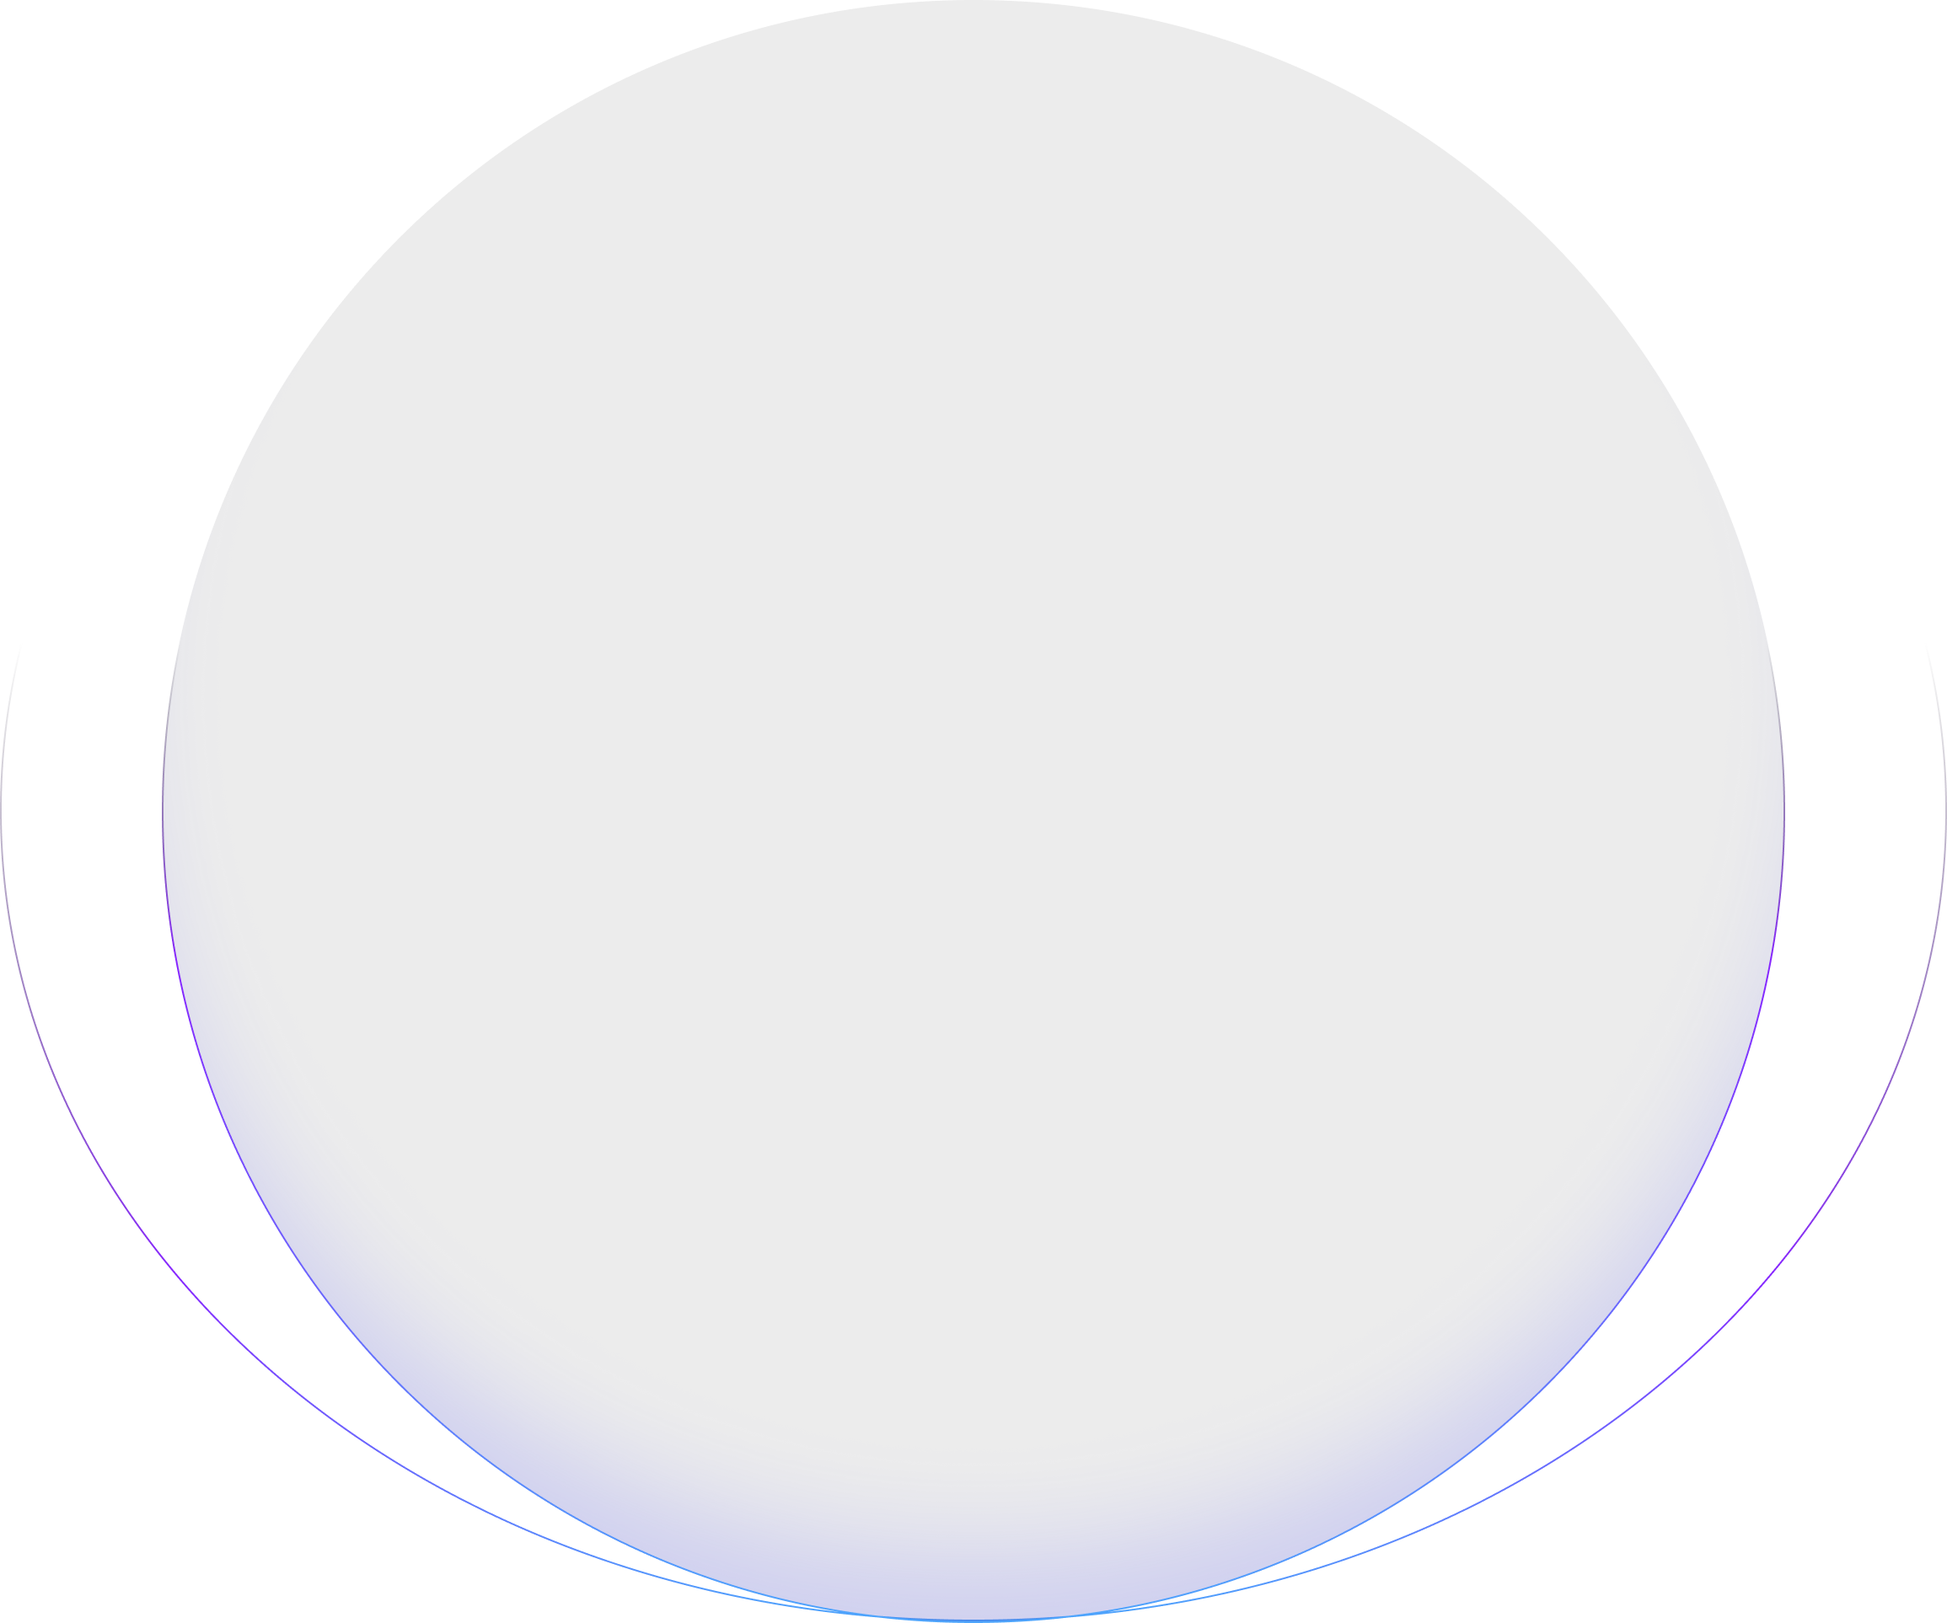
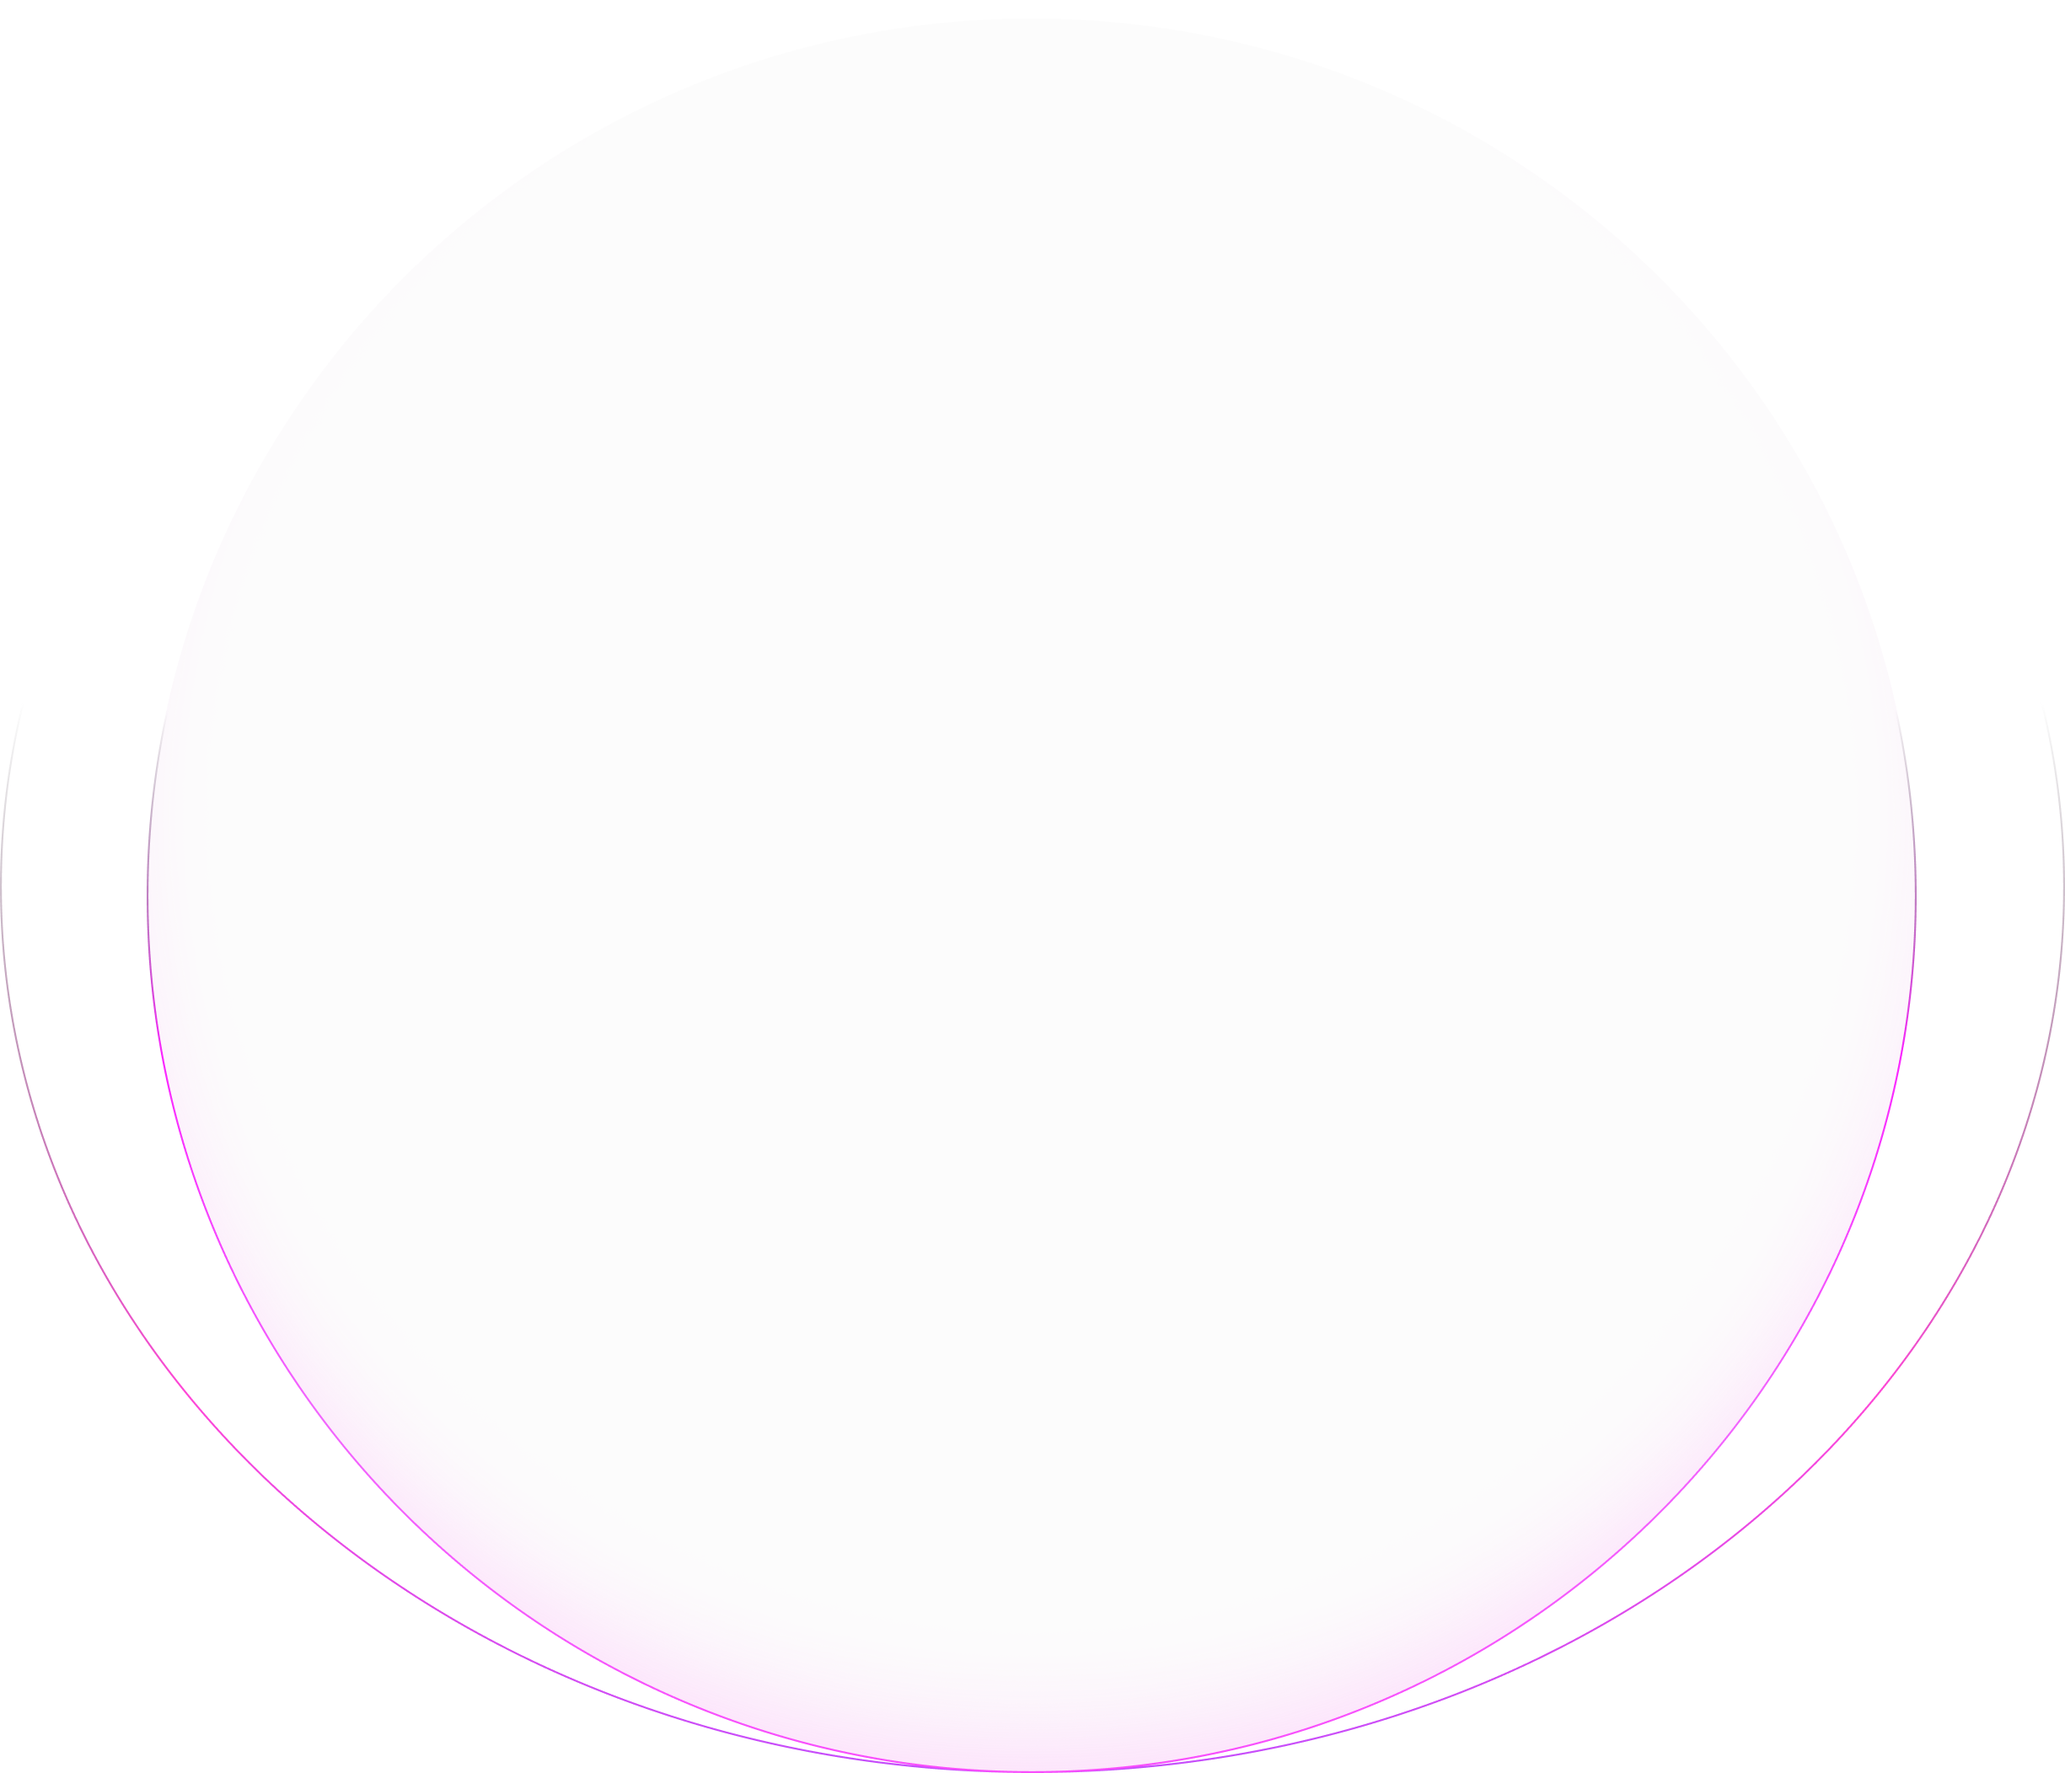
update header

Changed region(s): [[0.0935, 0.5607, 0.9351, 1.0], [0.0623, 0.5607, 0.0935, 0.5919]]

diff --git a/apps/landing/src/app/team/page.tsx b/apps/landing/src/app/team/page.tsx
@@ -12,10 +12,10 @@ export const metadata = {
 
 export default function Page() {
 	return (
-		<div className="mt-[200px] flex w-full flex-col items-center overflow-hidden px-4">
+		<div className="mt-[200px] flex w-full flex-col items-center overflow-hidden px-4 lg:overflow-visible">
 			<div className="relative mx-auto h-auto w-full max-w-[1200px] overflow-visible">
 				<div
-					className="fade-in-heading absolute -left-1/4 top-[10%] mx-auto size-[750px] xs:inset-x-0 xs:left-[-16%] xs:top-[-50px] sm:left-0 sm:top-[-175px] sm:mx-auto md:inset-x-0 md:top-[-250px] md:size-[900px] lg:top-[-420px] lg:size-[1100px]"
+					className="fade-in-heading absolute -left-1/4 top-[10%] mx-auto size-[750px] blur-[5px] xs:inset-x-0 xs:left-[-16%] xs:top-[-50px] sm:left-0 sm:top-[-175px] sm:mx-auto md:inset-x-0 md:top-[-250px] md:size-[900px] lg:top-[-420px] lg:size-[1100px]"
 					style={{
 						backgroundImage: 'url(/images/circlebg.webp',
 						backgroundRepeat: 'no-repeat',
@@ -25,7 +25,7 @@ export default function Page() {
 				/>
 				<h1 className="fade-in-heading mx-auto w-full max-w-[750px] text-center text-5xl font-bold leading-tight sm:leading-snug">
 					We believe file management should be{' '}
-					<span className="bg-gradient-to-r from-blue-500 to-purple-500 bg-clip-text text-transparent">
+					<span className="bg-gradient-to-r from-fuchsia-500 to-indigo-500 bg-clip-text text-transparent">
 						universal
 					</span>
 					.
